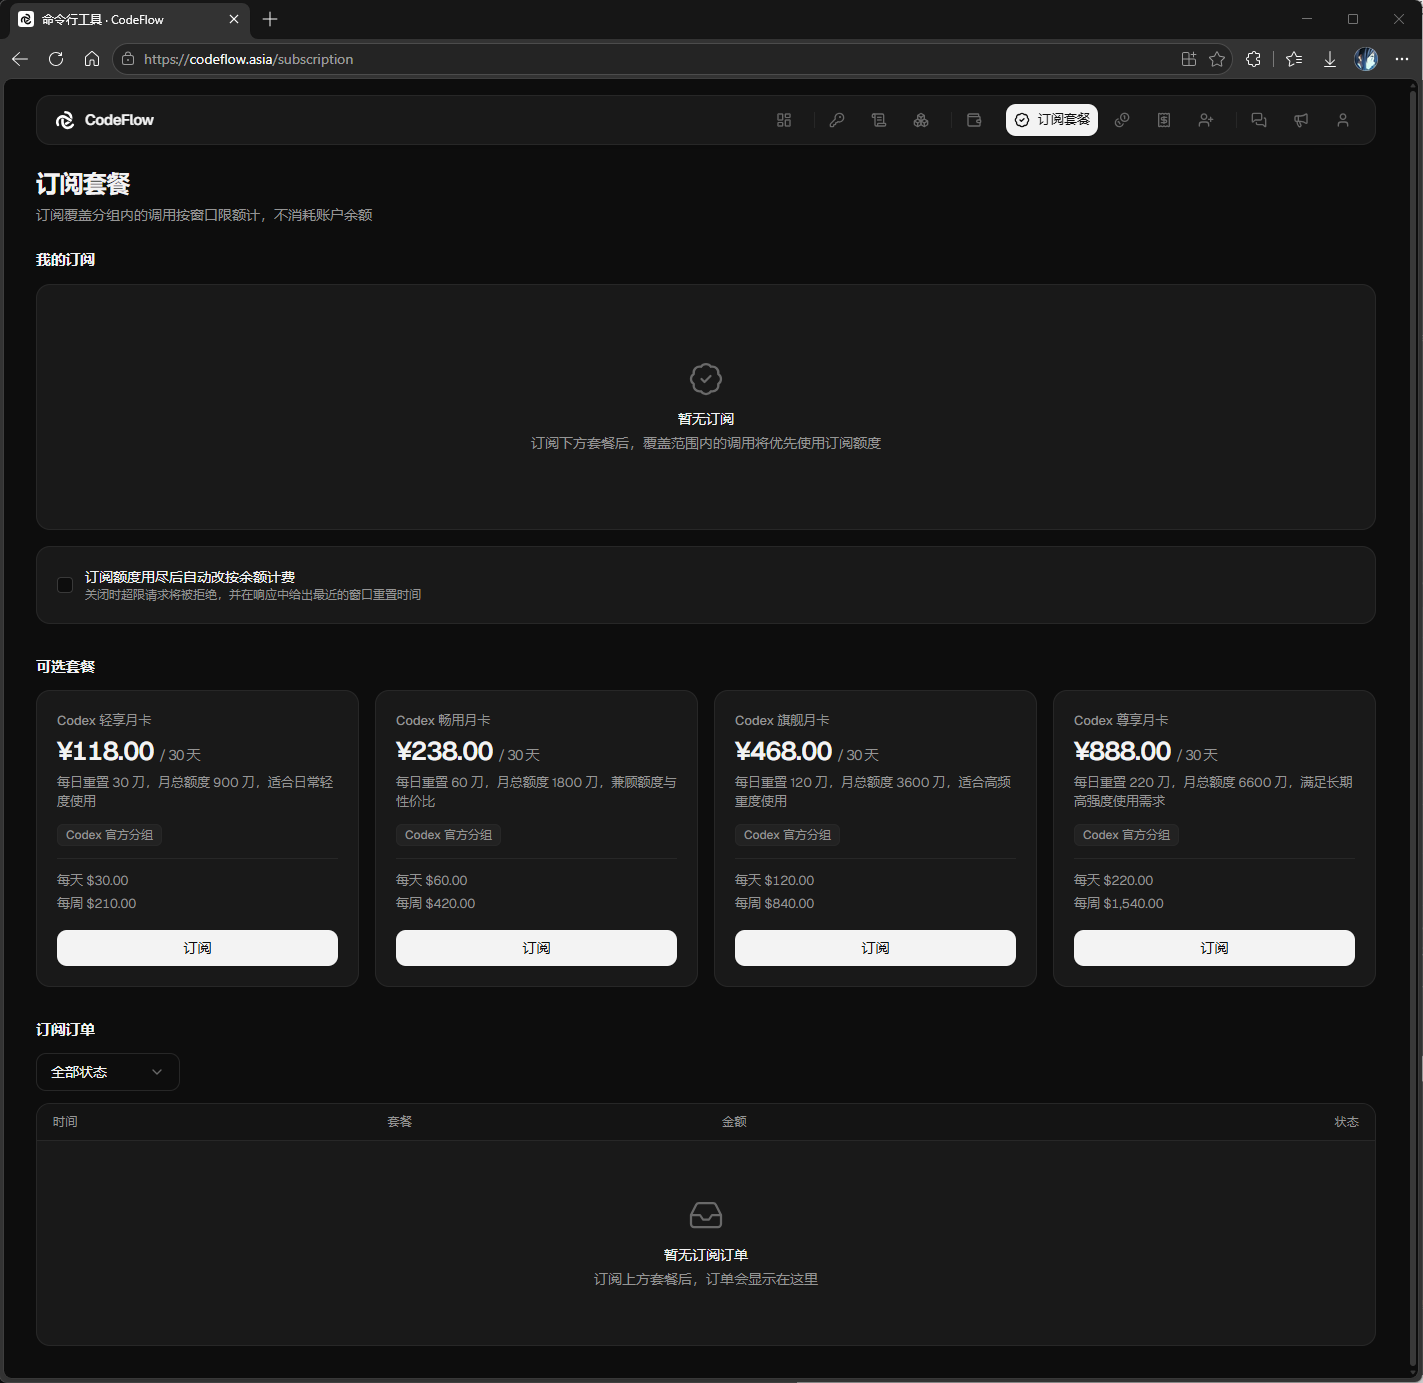
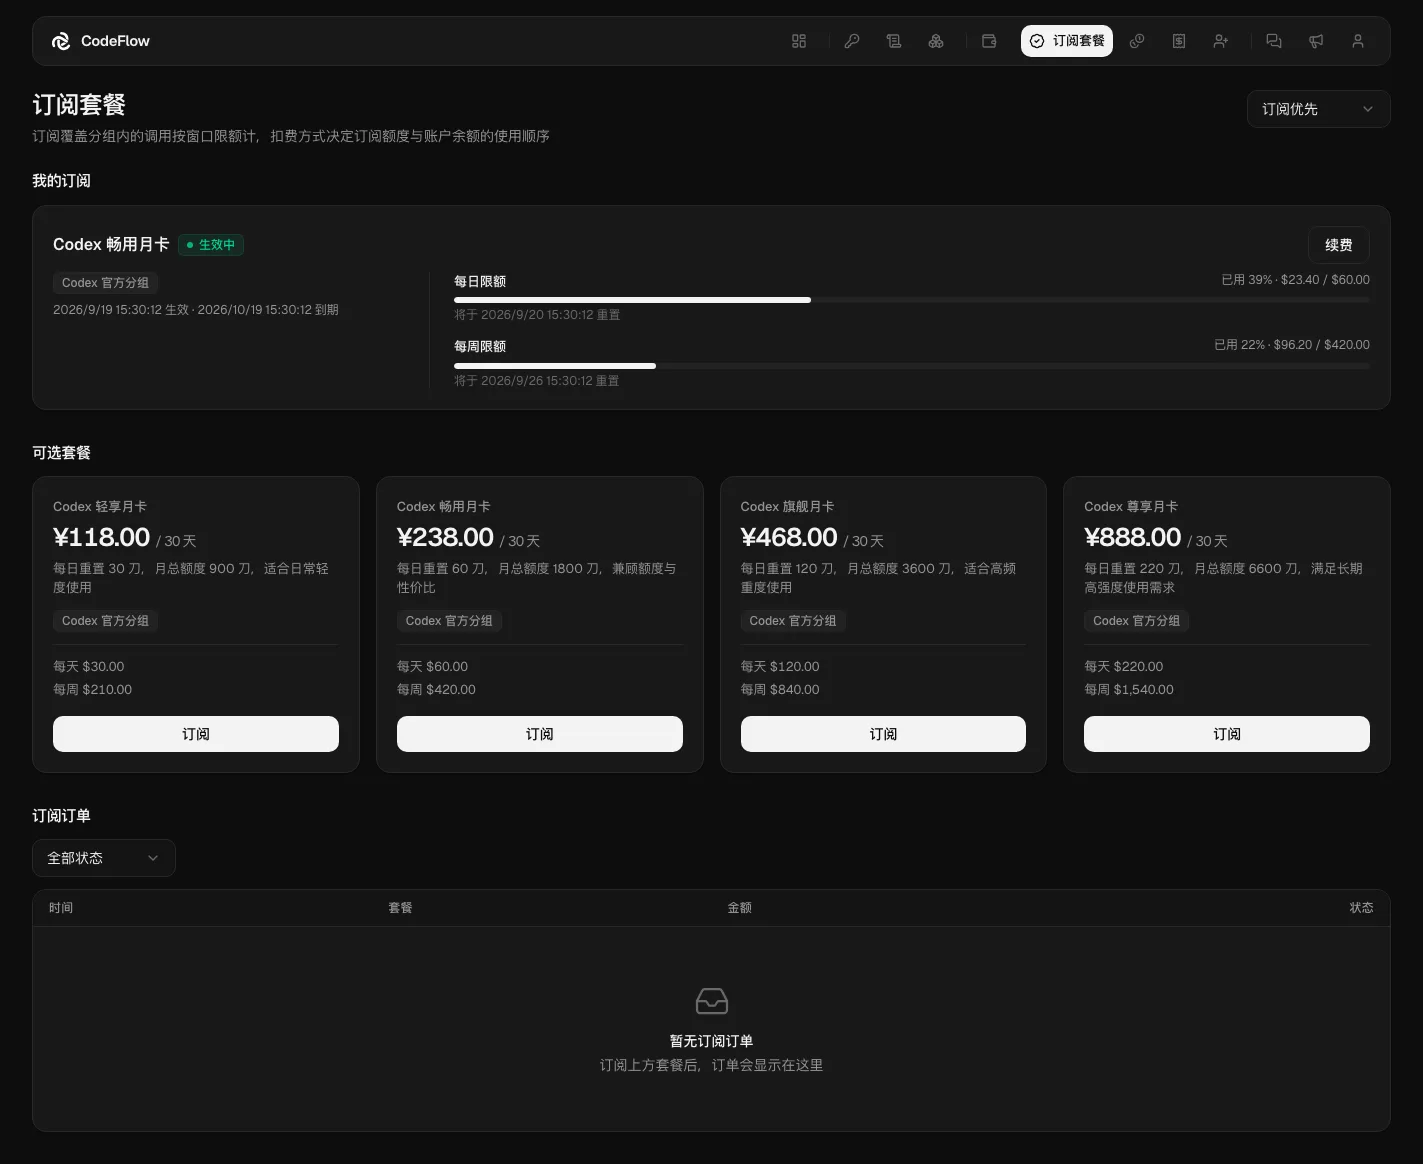
docs: 订阅计费按扣费方式四选一改写，预扣规则改为按请求估算，更新订阅套餐截图
CodeFlow v1.26.0 把「订阅额度用尽后自动改按余额计费」开关换成
「扣费方式」四选一（订阅优先／余额优先／仅订阅／仅余额，默认订阅
优先）。模型与计费页对应段落改为四种方式的说明表格，套餐说明补上
「走订阅额度的调用不消耗余额、先扣哪边由扣费方式决定」；快速开始
的余额不足处理与命令行工具的订阅套餐功能描述一并改写，核验日期与
版本更新到 2026 年 9 月 19 日、v1.26.0

预扣自 v1.25.0 起已改为按请求估算（估算输入加声明的最大输出，按
输入单价与分组倍率计），页内固定预扣 $1 与「余额低于 $1 无法调用」
的旧说法据此重写，示例流水改为估算额与退回额，净扣减金额保持不变

订阅套餐截图重截自 v1.26.0 界面：页头右侧为扣费方式下拉，示例含
一张生效中的套餐及每日、每周限额进度

diff --git a/guides/models-and-billing.md b/guides/models-and-billing.md
@@ -3,8 +3,8 @@
 > **数据来源与核验**
 >
 > - **来源**：[{{SITE_NAME}}「模型广场」]({{SITE_URL}}/#pricing) 与登录后的[控制台「订阅套餐」]({{SITE_URL}}/subscription)
-> - **核验范围**：模型列表、模型 ID 与单价，订阅套餐的价格与每日额度，以及「订阅额度用尽后自动改按余额计费」开关
-> - **最后核验日期**：2026 年 9 月 6 日
+> - **核验范围**：模型列表、模型 ID 与单价，订阅套餐的价格与每日额度，「扣费方式」选项与预扣规则
+> - **最后核验日期**：2026 年 9 月 19 日
 
 本页说明模型单价的公示位置、按量计费与订阅套餐两种计费方式，以及预扣结算与缓存计费规则。模型可用性、单价和套餐可能调整，使用前以站点实时显示为准
 
@@ -24,7 +24,7 @@
 
 **按量计费**：按实际 Token 用量从账户余额扣除。根据核验时的页面说明，账户余额长期有效；如规则调整，以充值页和控制台说明为准
 
-**订阅套餐**：订阅期内按窗口额度调用，不消耗账户余额
+**订阅套餐**：订阅期内按窗口额度调用，走订阅额度的调用不消耗账户余额；先扣订阅额度还是账户余额由 **扣费方式** 决定
 
 ![订阅套餐](/assets/images/models-and-billing/subscription-plans.webp)
 
@@ -32,24 +32,33 @@
 >
 > 套餐额度每日重置，并同时展示每周和每月总额度。具体恢复时间、统计窗口和未使用额度的处理方式，以登录后的 **订阅套餐** 页面为准
 
-**订阅套餐** 页面提供 **订阅额度用尽后自动改按余额计费** 开关，**默认关闭**。关闭状态下额度用尽即暂停调用，并在响应中给出恢复时间；开启后额度用尽自动转为扣减余额
+**订阅套餐** 页头右侧提供 **扣费方式** 下拉选项，默认为 **订阅优先**。四种方式的含义如下：
+
+|扣费方式|说明|
+|---|---|
+|订阅优先|有可用订阅时使用订阅额度，订阅用尽或未覆盖当前分组时改扣余额|
+|余额优先|余额充足时扣余额，余额不足时改用订阅额度|
+|仅订阅|只使用订阅额度，订阅用尽或未覆盖当前分组时拒绝请求|
+|仅余额|只扣账户余额，不使用订阅额度|
+
+「未覆盖当前分组」指令牌所在分组不在任何有效订阅的覆盖范围内。订阅额度用尽而当前方式又不改扣余额时，请求会被拒绝，并在响应中给出恢复时间
 
 ## 预扣与额度流水
 
 **额度流水** 记录账户额度变动，页面可能显示预扣、预扣退回和消费等类型
 
-调用发起后，系统会先预扣 $1；调用结束后按实际用量结算，并退回未使用部分。单次调用的完整记录形式如下：
+调用发起后，系统先按本次请求估算一笔预扣：以估算的输入 Token 数加上请求声明的最大输出 Token 数，按输入单价与分组倍率计算；未声明最大输出时只按输入估算。调用结束后按实际用量结算，实际费用低于预扣则退回差额，高于预扣则追加一笔消费。单次调用的完整记录形式如下：
 
 |时间|类型|变动|
 |---|---|---|
-|08:14:32|预扣|-$1.000000|
-|08:14:33|预扣退回|+$0.668404|
+|08:14:32|预扣|-$0.412500|
+|08:14:33|预扣退回|+$0.080904|
 
 上例中，两笔流水的净扣减额为 $0.331596。**额度流水** 中的请求 ID 可与 **使用日志** 中的具体调用对应，用于核对用量和扣费
 
 > **注意**
 >
-> 可用余额低于 $1 时可能无法发起调用，即使本次请求的最终费用低于 $1。规则如有调整，以控制台返回信息为准
+> 可用余额低于本次预扣额时无法发起调用，即使最终费用更低；客户端声明的最大输出越大，单次预扣也越大。规则如有调整，以控制台返回信息为准
 
 ## 缓存计费
 

diff --git a/guides/quick-start.md b/guides/quick-start.md
@@ -84,6 +84,6 @@ powershell -c "irm {{SITE_URL}}/install.ps1 | iex"
 |---|---|
 |返回 401 或认证失败|重新复制令牌，确认无多余空格；丢失或泄露时删除重建|
 |返回 404 或模型不存在|确认模型 ID 拼写正确，且令牌分组与模型系列匹配|
-|提示余额不足|确认可用余额不低于预扣的 $1；订阅额度用尽则等待恢复|
+|提示余额不足|余额需覆盖本次预扣；订阅额度用尽时按扣费方式改扣余额或等待恢复|
 |客户端无法连接|按对应客户端页面核对接入地址，确认末尾是否带 `/v1`|
 |充值后未到账|刷新 **账户充值** 页面核对记录，仍未到账时携带订单号提交工单|
